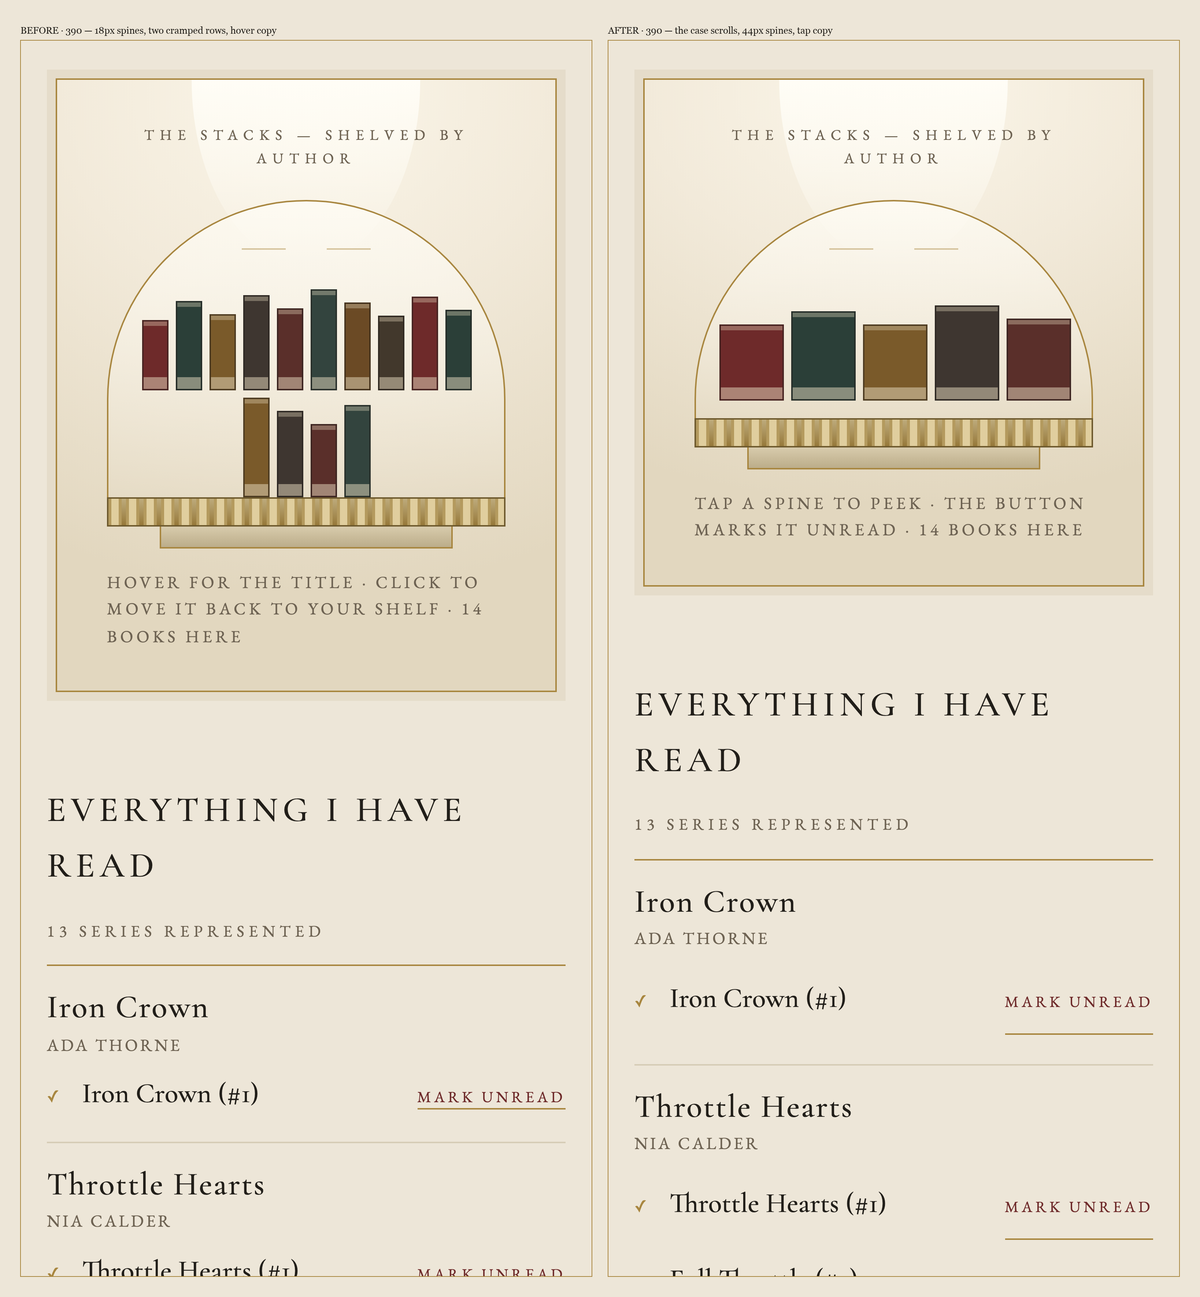
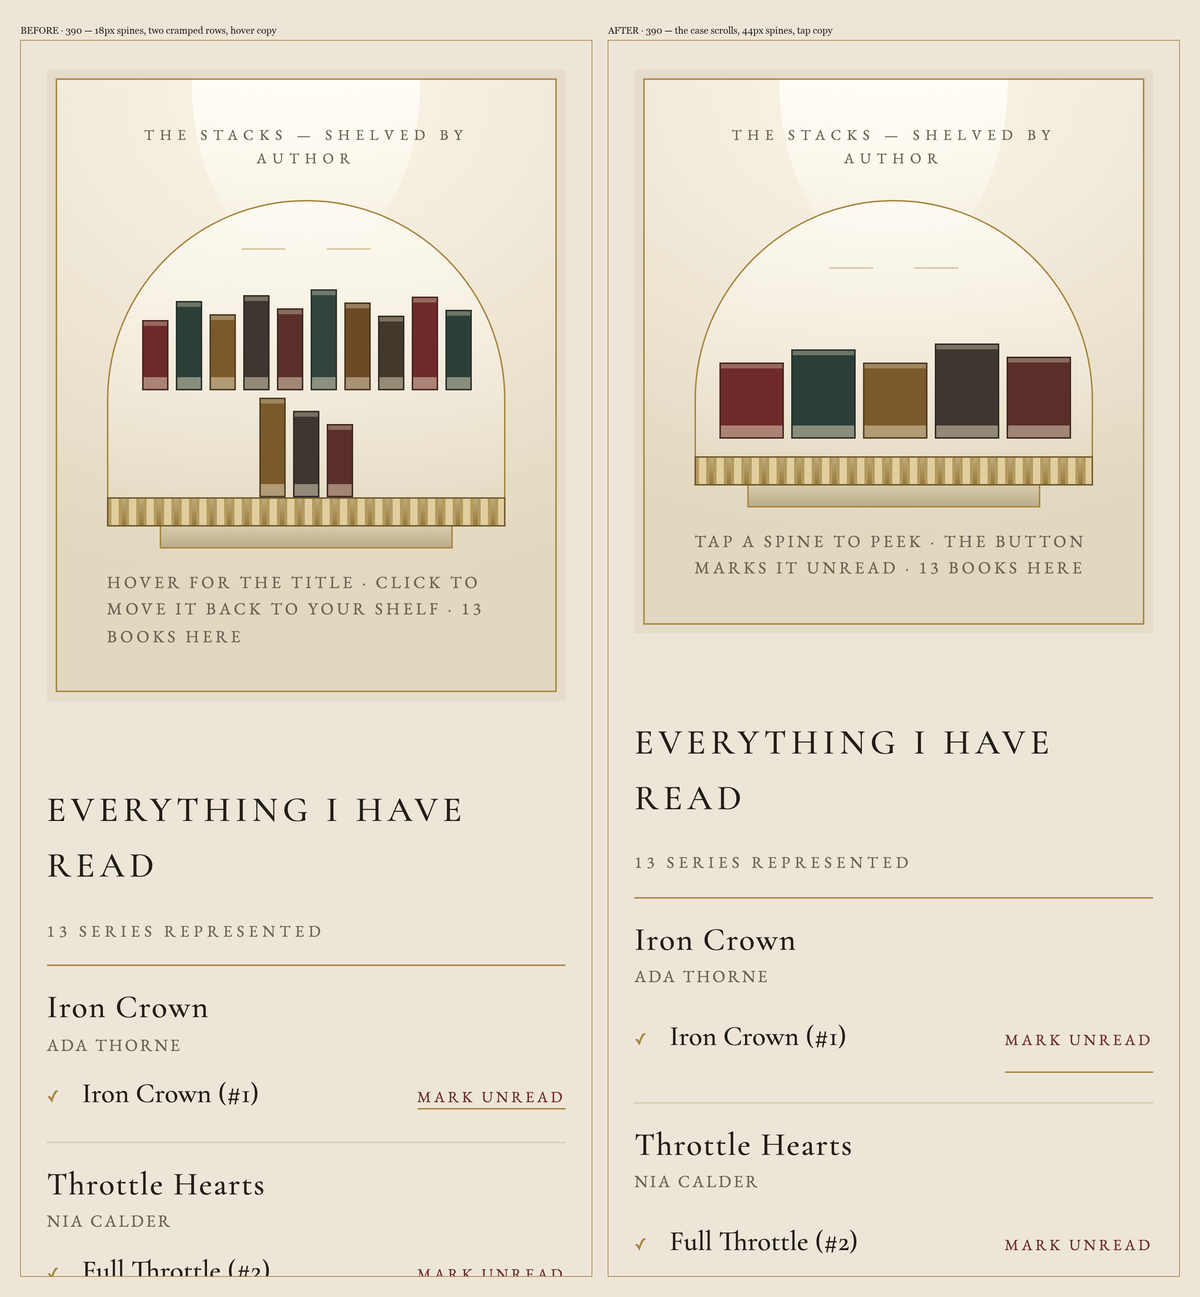
Ticket #11 review fixes
Two-axis review findings, folded in:

- The peek LIFTS the spine: a tapped spine rises 14px out of the row (measured:
  its bottom sits 14px above the others), so the plate is visibly tied to the
  spine you touched — desktop hover unchanged.
- The peek can no longer outlive its plate: mouseleave only clears the tip when
  nothing is peeked (touch browsers emulate leave when the finger moves), and
  switching either tab or the read/set-aside segment clears the peek — the
  labelled button can never act on a book the plate no longer names.
- The standalone rows' "mark unread" got the mobile hook too (13 controls
  checked, all 44px; the earlier claim covered only the series rows).
- mobile re-evaluates on resize: a matchMedia change listener updates the
  behavior flag (verified: widening past 700px mid-session returns a spine
  click to marking directly, no peek button).
- The plate reserves its two-line height (min-height 52px): the case does not
  shift when a peek fills it (measured: case y 674 before and after).
- The plate string is built once per spine; the mobile CSS rules for
  putback/unreadbtn are one rule instead of two byte-identical copies, and the
  peekBtn no-op rule is gone. Evidence labels carry · 390.

diff --git a/pipeline/design/app.html b/pipeline/design/app.html
@@ -53,13 +53,11 @@
     [data-m="pills"] button{min-height:44px !important;padding:11px 16px !important;font-size:11.5px !important;letter-spacing:.14em !important}
     [data-m="pills"]{gap:8px !important}
     [data-m="stackCase"]{padding:20px 12px 0 !important}
-    [data-m="stackPlate"]{flex-wrap:wrap !important}
+    [data-m="stackPlate"]{flex-wrap:wrap !important;min-height:52px !important}
     [data-m="stackTip"]{max-width:88vw !important;white-space:normal !important;display:-webkit-box !important;-webkit-line-clamp:2 !important;-webkit-box-orient:vertical !important}
     [data-m="spineRow"]{flex-wrap:nowrap !important;justify-content:flex-start !important;overflow-x:auto !important;max-width:none !important;padding:0 4px 12px !important;-webkit-overflow-scrolling:touch !important}
     [data-m="spine"]{width:44px !important;min-height:52px !important}
-    [data-m="peekBtn"]{min-height:44px !important}
-    [data-m="putback"]{min-height:44px !important;padding:12px 0 !important}
-    [data-m="unreadbtn"]{min-height:44px !important;padding:12px 0 !important}
+    [data-m="putback"],[data-m="unreadbtn"]{min-height:44px !important;padding:12px 0 !important}
     [data-m="setVeil"]{padding:0 !important;align-items:flex-end !important}
     [data-m="settingsBox"]{padding:24px 18px 30px !important;max-width:none !important;width:100% !important;max-height:94% !important;min-height:0 !important;overflow:auto !important;border-left:none !important;border-right:none !important;border-bottom:none !important;box-shadow:0 -18px 50px rgba(20,18,14,.35) !important}
     [data-m="settingsBox"] input,[data-m="settingsBox"] select,[data-m="settingsBox"] button{min-height:44px !important}
@@ -184,7 +182,7 @@
             </div>
             <div style="display:flex;align-items:center;justify-content:flex-end;gap:16px">
               <span style="{{ b.tagStyle }}">{{ b.tag }}</span>
-              <button type="button" onClick="{{ b.onUnread }}" style="font-size:10.5px;letter-spacing:.2em;text-transform:uppercase;color:#6E2A2A;border-bottom:1px solid #A8863F;padding:0 0 1px" style-hover="color:#1E3A2F">mark unread</button>
+              <button type="button" data-m="unreadbtn" onClick="{{ b.onUnread }}" style="font-size:10.5px;letter-spacing:.2em;text-transform:uppercase;color:#6E2A2A;border-bottom:1px solid #A8863F;padding:0 0 1px" style-hover="color:#1E3A2F">mark unread</button>
             </div>
           </div>
         </sc-for>
@@ -645,6 +643,9 @@ function hydrateIds(d){
 
 class Component extends DCLogic {
   state={ data:(typeof window!=='undefined'&&window.SHELF_DATA)?hydrateIds(window.SHELF_DATA):null, states:{}, ts:{}, open:{}, q:0, view:'shelf', tip:'', peek:'', peekVol:false, sync:'?', pendingAll:false, archiveView:'read', seriesAll:false, mobile:(typeof window!=='undefined'&&window.matchMedia)?window.matchMedia('(max-width:700px)').matches:false };
+  componentDidMount(){ try{ if(typeof window!=='undefined'&&window.matchMedia){ this._mq=window.matchMedia('(max-width:700px)');
+    this._mqFn=()=>this.setState({mobile:this._mq.matches}); if(this._mq.addEventListener)this._mq.addEventListener('change',this._mqFn); } }catch(e){} }
+  componentWillUnmount(){ try{ if(this._mq&&this._mqFn&&this._mq.removeEventListener)this._mq.removeEventListener('change',this._mqFn); }catch(e){} }
 
   /* ---- one identity per book ------------------------------------------
      Every book carries the pipeline's canonical id — a month's pick and a
@@ -889,14 +890,18 @@ class Component extends DCLogic {
     readBySeries.forEach(s=>s.books.forEach(b=>shelved.push({t:b.t,a:s.author,s:s.name,id:b.id,vol:true})));
     solo.forEach(b=>shelved.push({t:b.title,a:b.author,s:'standalone',id:b.id,vol:false}));
     shelved.sort((x,y)=>(x.a||'').split(' ').pop().localeCompare((y.a||'').split(' ').pop()));
-    const spines=shelved.map((bk,i)=>({tip:bk.t+' — '+bk.a+' · '+bk.s+(this.state.mobile?' — tap to peek':' — click to mark unread'),
-      onClick:()=>{ if(this.state.mobile){ this.setState({tip:bk.t+' — '+bk.a+' · '+bk.s, peek:bk.id, peekVol:bk.vol}); }
+    const spines=shelved.map((bk,i)=>{
+      const plate=bk.t+' — '+bk.a+' · '+bk.s;
+      const peeked=this.state.peek===bk.id;
+      return {tip:plate+(this.state.mobile?' — tap to peek':' — click to mark unread'),
+      onClick:()=>{ if(this.state.mobile){ this.setState({tip:plate, peek:bk.id, peekVol:bk.vol}); }
                     else { this.unreadId(bk.id,bk.vol); } },
-      onEnter:()=>this.setState({tip:bk.t+' — '+bk.a+' · '+bk.s}),
-      onLeave:()=>this.setState({tip:''}),
+      onEnter:()=>this.setState({tip:plate}),
+      onLeave:()=>{ if(!this.state.peek) this.setState({tip:''}); },
       style:{flex:'0 0 auto',width:'18px',height:(48+((i*13)%22))+'px',padding:0,cursor:'pointer',transition:'transform .18s ease',
+        transform:peeked?'translateY(-14px)':'none',
         background:CLOTH[i%CLOTH.length],border:'1px solid rgba(33,30,25,.5)',
-        boxShadow:'inset 0 -8px 0 rgba(232,220,192,.5), inset 0 3px 0 rgba(232,220,192,.35)'}}));
+        boxShadow:'inset 0 -8px 0 rgba(232,220,192,.5), inset 0 3px 0 rgba(232,220,192,.35)'}};});
 
     const tab=on=>({fontFamily:"'EB Garamond',Georgia,serif",fontSize:'11px',letterSpacing:'.28em',textTransform:'uppercase',
       padding:'14px 26px',cursor:'pointer',color:on?INK:MID,
@@ -933,7 +938,7 @@ class Component extends DCLogic {
     const heroCoverStyle=(H.cover)?{position:'relative',width:'100%',aspectRatio:'2/3',backgroundImage:'url("'+H.cover+'")',backgroundSize:'cover',backgroundPosition:'center',backgroundColor:'#25493A',display:'flex',alignItems:'flex-end',padding:'12px'}:{position:'relative',width:'100%',aspectRatio:'2/3',background:'repeating-linear-gradient(90deg,#25493A 0 7px,#2A5241 7px 14px)',display:'flex',alignItems:'flex-end',padding:'12px'};
     return {
       isShelf:this.state.view==='shelf', isArchive:this.state.view==='archive',
-      showShelf:()=>this.setState({view:'shelf'}), showArchive:()=>this.setState({view:'archive'}),
+      showShelf:()=>this.setState({view:'shelf',peek:'',peekVol:false,tip:''}), showArchive:()=>this.setState({view:'archive',peek:'',peekVol:false,tip:''}),
       tabShelf:tab(this.state.view==='shelf'), tabArchive:tab(this.state.view==='archive'),
       archiveCount:shelved.length,
       spines, readBySeries, readSeriesCount:readBySeries.length, solo, soloCount:solo.length,
@@ -948,8 +953,8 @@ class Component extends DCLogic {
       setAsideLabel:(setAsideList.length===1?'one book set aside':setAsideList.length+' books set aside'),
       archiveRead:this.state.archiveView!=='setAside', archiveSetAside:this.state.archiveView==='setAside',
       archiveReadOn:this.state.archiveView!=='setAside', archiveSetAsideOn:this.state.archiveView==='setAside',
-      showRead:()=>this.setState({archiveView:'read'}),
-      showSetAside:()=>this.setState({archiveView:'setAside'}),
+      showRead:()=>this.setState({archiveView:'read',peek:'',peekVol:false,tip:''}),
+      showSetAside:()=>this.setState({archiveView:'setAside',peek:'',peekVol:false,tip:''}),
       segRead:seg(this.state.archiveView!=='setAside'), segSetAside:seg(this.state.archiveView==='setAside'),
       hasWaiting:waitingAll.length>0, waiting:waiting,
       waitingLabel:(waitingAll.length===1?'one book still waiting':waitingAll.length+' books still waiting'),
